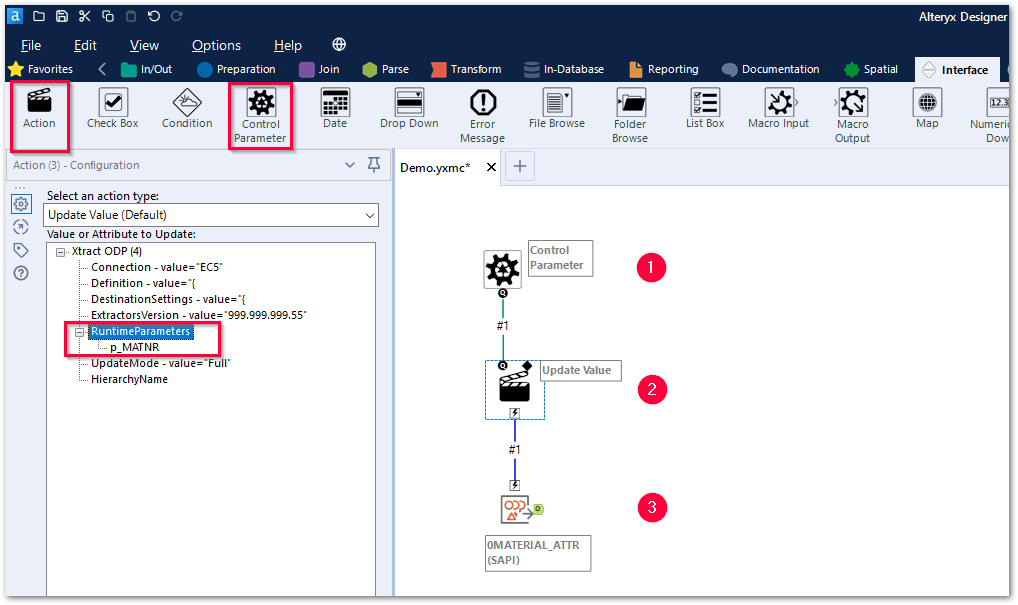
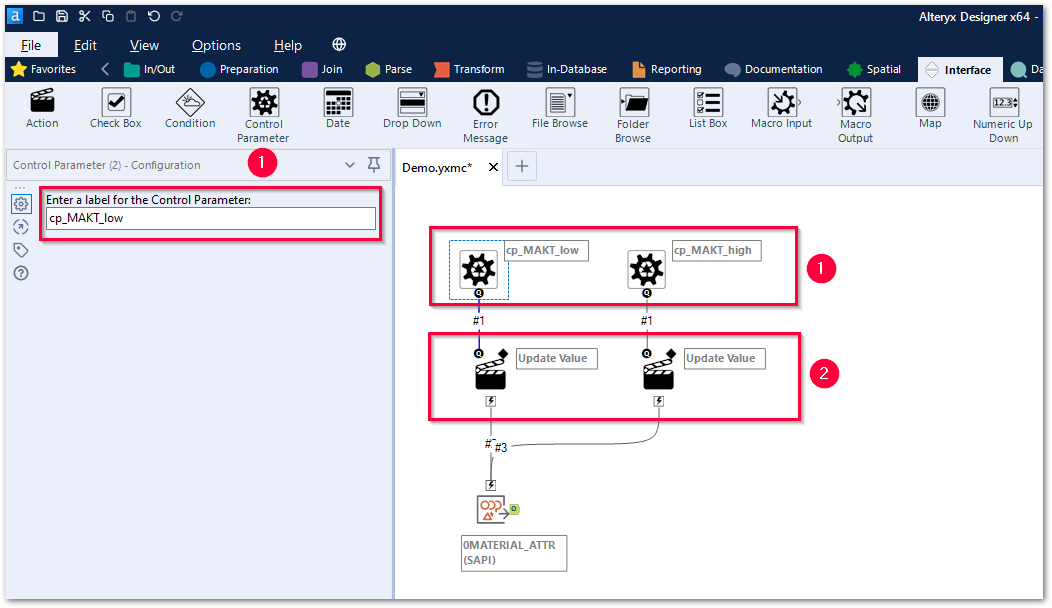
mulriple parameters

diff --git a/content/_en/xtract-for-alteryx/parameterizing.md b/content/_en/xtract-for-alteryx/parameterizing.md
@@ -1,7 +1,7 @@
 ---
 ref: xtract-for-alteryx-20
 layout: page
-title: Parameterizing
+title: Parameterizing Xtract Components
 description: Parameterizing via Batch Macro and Control Parameters
 product: xtract-for-alteryx
 parent: xtract-for-alteryx
@@ -22,21 +22,23 @@ The following example shows how to parameterize the Xtract ODP component using c
 
 ### Create an Extraction
 
-Create a **new workflow** and add an extraction with (multiple) input parameters.<br>
-This example uses an extraction of the Data Object *0MATERIAL_ATTR*.
+Create a **new workflow** and add an extraction with input parameters.<br>
+This example uses an extraction of the Data Object *0MATERIAL_ATTR* with the Xtract ODP component. 
+The goal of this example is to parameterize the selection filter of the column *MATNR*, so that the extraction only returns materials between the low threshold value *p_MATNR_low* and the high threshold value *p_MATNR_high*. 
 
 1. Add an Xtract ODP extraction into the workflow.
-2. Look up the Data Object *0MATERIAL_ATTR*, see [ODP: To Search for a Data Object](./odp/odp-define#to-search-for-a-data-object).
+2. Look up the Data Object *0MATERIAL_ATTR*.
 3. Load a live preview of the Operational Data Provider.
-4. Create 2 new runtime parameters of type *String* and name them *p_MATNR_low* and *p_MATNR_high*, see [ODP: Edit Parameters](./odp/odp-settings#edit-parameters).
-5. Assign the parameters as selection filters to the column *MATNR*, so that only material numbers higher than *p_MATNR_low* and lower than *p_MATNR_high* are included in the result data.
+4. Create 2 new runtime parameters of type *String* and name them *p_MATNR_low* and *p_MATNR_high*.
+5. Assign the parameters as selection filters to the column *MATNR*, so that only materials with numbers between *p_MATNR_low* and *p_MATNR_high* are included in the result data.
 
-For more detailed information on how to create an ODP extraction see [Define an ODP Extraction](./odp/odp-define).<br>
-General information on how to create extractions can be found in [Getting Started](./getting-started).
+For more detailed information on how to create an ODP extraction and create runtime parameters, see [Define an ODP Extraction](./odp/odp-define) and [Edit Parameters](./odp/odp-settings#edit-parameters).<br>
+General information on how to create an extraction can be found in [Getting Started](./getting-started).
 
 ### Create a Batch Macro
 
 A batch macro runs a worklow for each input parameter and creates an output after each run.<br>
+The control parameters of a batch macro can be used to update the runtime parameters of the Xtract component.
 Make sure to have the Xtract component to be prarameterized already set up in a new workflow, see [Create an Extraction](#create-an-extraction).
 
 How to create a batch macro for parameterizing an Xtract component:
@@ -44,14 +46,15 @@ How to create a batch macro for parameterizing an Xtract component:
 1. Navigate to the *Workflow Configuration* and select **Batch Macro** as the Workflow Type from drop down list.<br>
 ![BatchMacro](/img/content/xfa/batchmakro.png){:class="img-responsive"}
 2. Save the workflow as a batch macro. Once the file is saved each tool in the workflow gets a lightning bolt anchor. Only *Interface* Tools can connect to these anchors.
-3. Drag&Drop 2 **Control Parameter** tools from the *Interface* toolbox onto the canvas. Enter a text to be displayed for the parameters outside the batch macro e.g., name one *macro_MATNR_low* and the other *macro_MATNR_high*.
-4. Connect the **Control Parameter** tools to the **Xtract ODP** component. This creates the *Action* tool **Update Value**.<br>
+3. Drag&Drop 2 **Control Parameter** tools from the *Interface* toolbox onto the canvas. Enter a text to be displayed for the parameters outside the batch macro e.g., name one *cp_MATNR_low* and the other *cp_MATNR_high* (1).
+4. Connect the **Control Parameter** tools to the **Xtract ODP** component. This creates the *Action* tool **Update Value** (2).<br>
 ![Workflow-Sequence](/img/content/xfa/workflow-sequence.png){:class="img-responsive"}
 5. Click on one of the **Update Value** tools to display the available parameters of the **Xtract ODP** component in the *Action Configuration* menu.
-Check if *p_MATNR_low*  and *p_MATNR_high* are listed in the tree structure under Xtract ODP > RuntimeParameters.
-6. To assign a control parameter to an Xtract runtime parameter, select the Xtract runtime parameter in the tree structure. 
-Assign the control parameter *macro_MATNR_low* to the Xtract runtime parameter *p_MATNR_low* and *macro_MATNR_high* to the Xtract runtime parameter *p_MATNR_high*.
-7. Drag&Drop the **Macro Output** tool from the *Interface* toolbox onto the canvas to create an output for the batch macro. 
+Check if *p_MATNR_low*  and *p_MATNR_high* are listed in the tree structure under Xtract ODP > RuntimeParameters. <br>
+![Workflow-Sequence2](/img/content/xfa/workflow-sequence2.png){:class="img-responsive"}
+6. To assign a control parameter to an Xtract runtime parameter, select the Xtract runtime parameter in the tree structure (3). 
+Assign the control parameter *cp_MAKT_low* to the Xtract runtime parameter *p_MATNR_low* and *cp_MAKT_high* to the Xtract runtime parameter *p_MATNR_high*.
+7. Drag&Drop the **Macro Output** tool from the *Interface* toolbox onto the canvas to create an output for the batch macro (4). 
 8. Connect the **Xtract ODP** component to the **Macro Output** and save the file.
 
 {: .box-note}
@@ -60,18 +63,21 @@ You can enter a formular directly into the **Formula** field at the buttom of th
 
 ### Use the Batch Macro in a Workflow
 
-Depending on the type of ...
-To use the batch macro, you need to import the macro and provide an input text for the parameters. <br>
-This example uses the **Text Input** tool to define the parameters for the material number filter of the Data Object *0MATERIAL_ATTR*...
+The batch macro containing the Xtract component can be imported into a **new workflow** with the control parameters as input.<br>
+This example uses the **Text Input** tool to define the parameters for the extraction.
 
 1. Drag&Drop the **Text Input** tool from the *In/Out* toolbox onto the canvas.
-2. Enter a valid input for the runtime parameters of the Xtract component into the **Text Input** tool. Add a new column for every parameter. Example: 000000000000000023 as input for *p_MATNR_low* and 000000000000000100 as input for *p_MATNR_high*. <br>
-3. To import the macro right-click the canvas and navigate to **Insert > Macro**. Select or browse the macro that contains the Xtract component.<br>
-![Import-Macro](/img/content/xfa/insertmacro.png){:class="img-responsive"}
-4. Connect the **Text Input** tool to the batch macro.
-5. Select the batch macro and use the drop-down lists **Choose field** to assign the values from the **Text Input** columns to the control parameters of the batch macro.
-6. Drag&Drop the **Browse** tool from the *In/Out* toolbox onto the canvas and run the workflow to check the results.<br>
+2. Enter a valid input for the parameters in configuration dialog of the **Text Input** tool. Add a new column to the **Text Input** for every parameter (1). Example: 000000000000000023 as input for *p_MATNR_low* and 000000000000000100 as input for *p_MATNR_high*. <br>
 ![Input-Text](/img/content/xfa/input-text.png){:class="img-responsive"}
+3. To import the batch macro right-click the canvas and navigate to **Insert > Macro**. Select or browse the macro that contains the Xtract component.<br>
+4. Connect the **Text Input** tool to the batch macro.
+5. Select the batch macro and use the drop-down lists **Choose field** to assign the values from the **Text Input** columns to the control parameters of the batch macro.<br>
+![Import-Macro](/img/content/xfa/importmacro.png){:class="img-responsive"}
+6. Drag&Drop the **Browse** tool from the *In/Out* toolbox onto the canvas and run the workflow to check the results.<br>
+
+### How to use Control Parameters for a Where-Clause
+
+When using the Xtract Table Component, filtering is done via the where-clause of the component.
 
 ****
 #### Related Links
